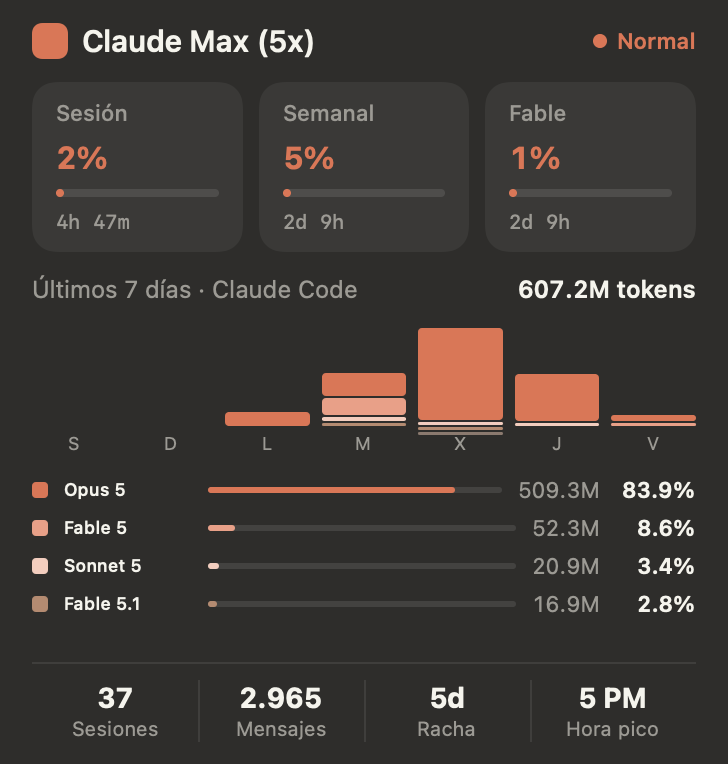
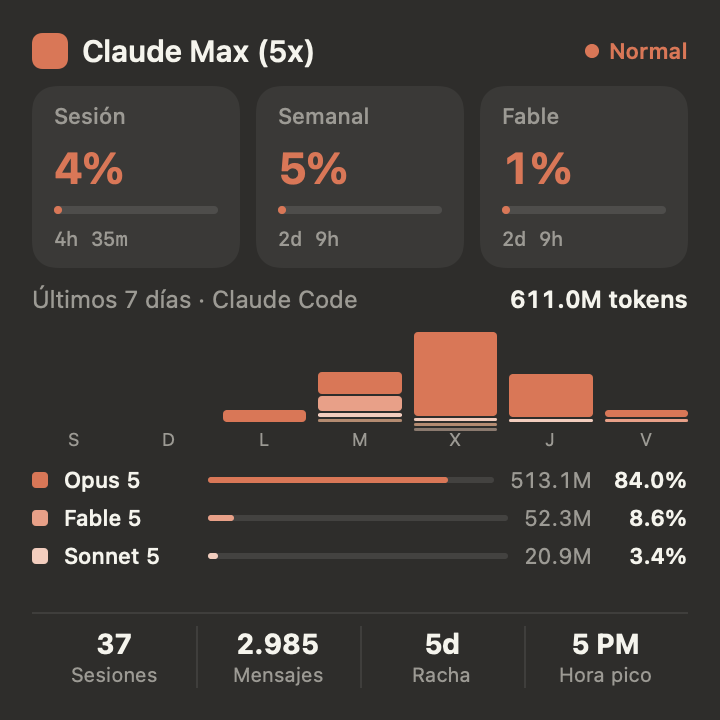
Panel bajo la barra de menú y layout grande que no se corta
Con los widgets ya en el escritorio salieron dos fallos que sólo se ven en uso.

El NSPopover se anclaba a ras del ítem de estado y quedaba montado sobre la barra
de menú en lugar de debajo. Lo reemplaza un NSPanel flotante colocado a mano ocho
puntos bajo la barra, redondeado por los cuatro lados y con su propia sombra, que
es como se comportan los menús desplegables de iStat o Stats. Un panel no se
cierra solo al hacer clic fuera, así que lleva un monitor global de eventos.

El layout grande asumía el lienzo del prototipo, 364x382, pero WidgetKit entrega
menos alto y se comía las etiquetas del pie. Ahora el gráfico es el único
elemento que cede altura (layoutPriority -1) y el pie la reserva
(layoutPriority 1), con espaciados más apretados y tres modelos en la leyenda en
vez de cuatro. Verificado renderizando a 382, 360 y 340 de alto.

Claude-Session: https://claude.ai/code/session_01Lr5E3wnwMuyNogQxciTvtg

diff --git a/Sources/App/UsagePanel.swift b/Sources/App/UsagePanel.swift
@@ -1,0 +1,121 @@
+import AppKit
+import SwiftUI
+
+/// The dropdown behind the menu-bar item.
+///
+/// This is a floating `NSPanel` rather than an `NSPopover` on purpose. A popover anchors
+/// itself flush against the status item and draws a pointer into it, which on the current
+/// menu bar leaves the panel sitting on top of the bar instead of below it. Menu-bar apps
+/// that look right — iStat, Stats — use a detached panel placed a few points under the bar,
+/// and that is what this reproduces: rounded on all four corners, its own shadow, and a
+/// visible gap above it.
+final class UsagePanel: NSPanel {
+    /// Distance between the bottom of the menu bar and the top of the panel.
+    static let menuBarGap: CGFloat = 8
+    static let cornerRadius: CGFloat = 14
+
+    init(rootView: some View) {
+        super.init(contentRect: NSRect(x: 0, y: 0, width: 300, height: 420),
+                   styleMask: [.borderless, .nonactivatingPanel],
+                   backing: .buffered,
+                   defer: false)
+
+        isFloatingPanel = true
+        // Above normal windows and full-screen apps, like every other menu-bar dropdown.
+        level = .statusBar
+        // The rounded corners are drawn by the content, so the window itself is clear and
+        // only contributes the shadow.
+        backgroundColor = .clear
+        isOpaque = false
+        hasShadow = true
+        // Without this the panel vanishes the moment focus moves, including to its own
+        // click-through targets.
+        hidesOnDeactivate = false
+        animationBehavior = .utilityWindow
+        collectionBehavior = [.canJoinAllSpaces, .fullScreenAuxiliary, .stationary, .ignoresCycle]
+
+        let host = NSHostingView(rootView: AnyView(
+            rootView
+                .clipShape(RoundedRectangle(cornerRadius: UsagePanel.cornerRadius, style: .continuous))
+                .overlay(
+                    RoundedRectangle(cornerRadius: UsagePanel.cornerRadius, style: .continuous)
+                        .stroke(Theme.line, lineWidth: 1)
+                )
+        ))
+        host.sizingOptions = [.intrinsicContentSize]
+        contentView = host
+    }
+
+    /// A borderless panel refuses key status by default, which would leave the buttons
+    /// inside it dead.
+    override var canBecomeKey: Bool { true }
+}
+
+/// Shows, hides and positions the panel, and closes it on a click elsewhere.
+final class UsagePanelController {
+    private let panel: UsagePanel
+    private var outsideClickMonitor: Any?
+    private var resignObserver: NSObjectProtocol?
+
+    var isVisible: Bool { panel.isVisible }
+
+    init(rootView: some View) {
+        panel = UsagePanel(rootView: rootView)
+        resignObserver = NotificationCenter.default.addObserver(
+            forName: NSWindow.didResignKeyNotification, object: panel, queue: .main
+        ) { [weak self] _ in self?.hide() }
+    }
+
+    deinit {
+        if let resignObserver { NotificationCenter.default.removeObserver(resignObserver) }
+    }
+
+    func toggle(from button: NSStatusBarButton) {
+        isVisible ? hide() : show(from: button)
+    }
+
+    func show(from button: NSStatusBarButton) {
+        guard let buttonWindow = button.window else { return }
+
+        // Let SwiftUI settle on a height before asking where the top edge should go.
+        panel.layoutIfNeeded()
+        if let fitting = panel.contentView?.fittingSize, fitting.height > 0 {
+            panel.setContentSize(fitting)
+        }
+        let size = panel.frame.size
+
+        let buttonRect = buttonWindow.convertToScreen(button.convert(button.bounds, to: nil))
+        let screen = buttonWindow.screen ?? NSScreen.main
+
+        // Centred under the status item, then nudged back inside the screen so an item
+        // near the right edge does not push the panel off it.
+        var x = buttonRect.midX - size.width / 2
+        if let visible = screen?.visibleFrame {
+            x = min(max(x, visible.minX + UsagePanel.menuBarGap),
+                    visible.maxX - size.width - UsagePanel.menuBarGap)
+        }
+        let y = buttonRect.minY - UsagePanel.menuBarGap - size.height
+
+        panel.setFrameOrigin(NSPoint(x: x, y: y))
+        panel.makeKeyAndOrderFront(nil)
+        installOutsideClickMonitor()
+    }
+
+    func hide() {
+        panel.orderOut(nil)
+        removeOutsideClickMonitor()
+    }
+
+    /// A transient popover dismisses itself on an outside click; a panel has to be told.
+    private func installOutsideClickMonitor() {
+        removeOutsideClickMonitor()
+        outsideClickMonitor = NSEvent.addGlobalMonitorForEvents(
+            matching: [.leftMouseDown, .rightMouseDown]
+        ) { [weak self] _ in self?.hide() }
+    }
+
+    private func removeOutsideClickMonitor() {
+        if let outsideClickMonitor { NSEvent.removeMonitor(outsideClickMonitor) }
+        outsideClickMonitor = nil
+    }
+}

diff --git a/Sources/App/main.swift b/Sources/App/main.swift
@@ -14,10 +14,10 @@ if CommandLine.arguments.contains("--refresh") {
 }
 
 /// Menu-bar accessory: a tinted spark plus the session percentage, and the prototype's
-/// popover behind it.
-final class AppDelegate: NSObject, NSApplicationDelegate, NSPopoverDelegate {
+/// panel behind it.
+final class AppDelegate: NSObject, NSApplicationDelegate {
     private var statusItem: NSStatusItem!
-    private var popover: NSPopover!
+    private var panel: UsagePanelController!
     private let model = UsageModel()
     private var pollTimer: Timer?
 
@@ -27,13 +27,10 @@ final class AppDelegate: NSObject, NSApplicationDelegate, NSPopoverDelegate {
         statusItem.button?.target = self
         statusItem.button?.sendAction(on: [.leftMouseUp, .rightMouseUp])
 
-        popover = NSPopover()
-        popover.behavior = .transient
-        popover.delegate = self
-        popover.contentViewController = NSHostingController(rootView: MenuBarPopover(model: model))
+        panel = UsagePanelController(rootView: MenuBarPopover(model: model))
 
         // First run: install the background agent so the widget has data without the user
-        // having to find a toggle first. Turning it off in the popover sticks.
+        // having to find a toggle first. Turning it off in the right-click menu sticks.
         if !LaunchAgent.isInstalled { try? LaunchAgent.install() }
         model.backgroundRefresh = LaunchAgent.isInstalled
 
@@ -47,7 +44,7 @@ final class AppDelegate: NSObject, NSApplicationDelegate, NSPopoverDelegate {
             self?.render()
         }
 
-        // UsageModel drives a SwiftUI popover; the menu-bar button is AppKit and has no
+        // UsageModel drives a SwiftUI panel; the menu-bar button is AppKit and has no
         // way to observe it, so the model calls back whenever the payload changes.
         model.onChange = { [weak self] in self?.render() }
     }
@@ -79,22 +76,14 @@ final class AppDelegate: NSObject, NSApplicationDelegate, NSPopoverDelegate {
         if event.type == .rightMouseUp {
             showMenu()
         } else {
-            togglePopover()
-        }
-    }
-
-    private func togglePopover() {
-        guard let button = statusItem.button else { return }
-        if popover.isShown {
-            popover.performClose(nil)
-        } else {
-            model.reload()
-            popover.show(relativeTo: button.bounds, of: button, preferredEdge: .minY)
-            popover.contentViewController?.view.window?.makeKey()
+            guard let button = statusItem.button else { return }
+            if !panel.isVisible { model.reload() }
+            panel.toggle(from: button)
         }
     }
 
     private func showMenu() {
+        panel.hide()
         let menu = NSMenu()
         menu.addItem(withTitle: "Actualizar ahora", action: #selector(refreshNow), keyEquivalent: "r").target = self
 
@@ -113,7 +102,7 @@ final class AppDelegate: NSObject, NSApplicationDelegate, NSPopoverDelegate {
         statusItem.menu = menu
         statusItem.button?.performClick(nil)
         // A menu assigned to the status item swallows the button action, so it is removed
-        // straight after showing to keep left-click opening the popover.
+        // straight after showing to keep left-click opening the panel.
         statusItem.menu = nil
     }
 

diff --git a/Sources/Widget/LargeLayout.swift b/Sources/Widget/LargeLayout.swift
@@ -16,11 +16,12 @@ struct LargeLayout: View {
         return result
     }
 
-    /// Only the models that actually ran; the legend is not a catalogue.
-    private var legend: [ModelUsage] { Array(payload.models.prefix(4)) }
+    /// Only the models that actually ran; the legend is not a catalogue. Three rows is
+    /// what fits once the footer is guaranteed its space.
+    private var legend: [ModelUsage] { Array(payload.models.prefix(3)) }
 
     var body: some View {
-        VStack(alignment: .leading, spacing: 11) {
+        VStack(alignment: .leading, spacing: 8) {
             UsageHeader(title: "Claude \(payload.plan)",
                         worstPercent: payload.worstPercent,
                         markSize: 18,
@@ -42,11 +43,15 @@ struct LargeLayout: View {
                     .font(.ui(12, .semibold)).monospacedDigit().foregroundStyle(Theme.text)
             }
 
+            // The chart is the one element that can give up height. Everything else has a
+            // fixed size, so letting this flex is what keeps the footer labels on screen
+            // when WidgetKit hands over less room than the prototype's canvas.
             DaysChart(days: payload.days,
                       modelOrder: payload.models.map(\.name),
                       showLabels: true,
                       spacing: 6)
-                .frame(height: 64)
+                .frame(minHeight: 34, maxHeight: 60)
+                .layoutPriority(-1)
 
             VStack(alignment: .leading, spacing: 5) {
                 ForEach(Array(legend.enumerated()), id: \.offset) { index, model in
@@ -66,8 +71,11 @@ struct LargeLayout: View {
                 FooterStat(value: "\(payload.stats.streakDays)d", label: "Racha", divider: true)
                 FooterStat(value: payload.stats.peakHourLabel, label: "Hora pico", divider: true)
             }
-            .padding(.top, 9)
+            .padding(.top, 7)
             .overlay(alignment: .top) { Rectangle().fill(Theme.line).frame(height: 1) }
+            // The footer is the first thing a clipped layout loses, and it is the row that
+            // reads as broken when it goes. Pin it.
+            .layoutPriority(1)
         }
     }
 }
@@ -91,8 +99,8 @@ private struct LimitTile: View {
             Text(Fmt.countdown(to: bar.resetsAt, now: now))
                 .font(.mono(10)).foregroundStyle(Theme.muted).lineLimit(1).minimumScaleFactor(0.8)
         }
-        .padding(.horizontal, 12)
-        .padding(.vertical, 10)
+        .padding(.horizontal, 11)
+        .padding(.vertical, 8)
         .frame(maxWidth: .infinity, alignment: .leading)
         .background(RoundedRectangle(cornerRadius: 12).fill(Theme.elevated))
     }
